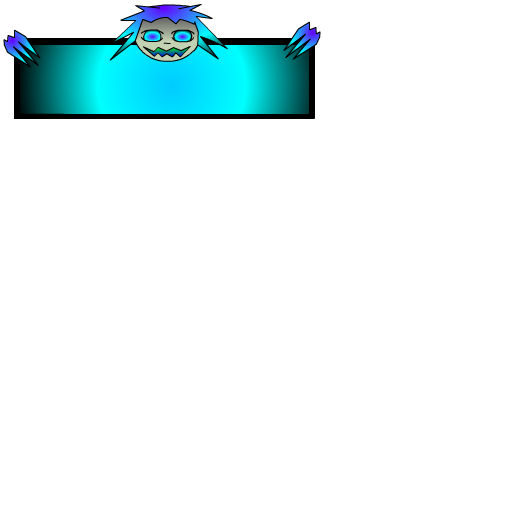
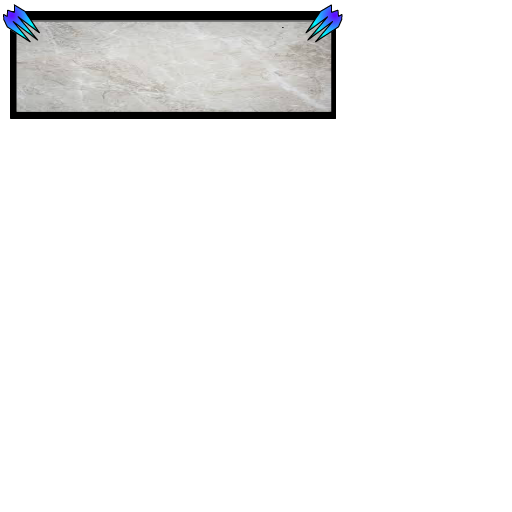
wip

Changed region(s): [[0.0, 0.0, 0.6875, 0.25]]

diff --git a/src/view/BottomPanel.js b/src/view/BottomPanel.js
@@ -9,7 +9,7 @@ export class BottomPanel extends PIXI.Container {
   constructor() {
     super();
 
-    const bg = new PIXI.Sprite(PIXI.Texture.fromImage('panelBack0000'));
+    const bg = new PIXI.Sprite(PIXI.Texture.fromImage('BottomPanel3'));
     bg.position.set(config.defaultWidth * 0.5, 0);
     bg.anchor.set(0.5, 0);
 
@@ -17,79 +17,133 @@ export class BottomPanel extends PIXI.Container {
     this.isDrag = false;
     this.targetSprite = null;
 
-    this.coinsTf = new PIXI.Text('0', config.panel_text);
-    this.coinsTf.position.set(400, 80);
+    this.coinsTf = new PIXI.Text('1', config.panel_gold_text);
+    this.coinsTf.position.set(400, 25);
     this.addChild(this.coinsTf);
 
+    const coin = new PIXI.Sprite(PIXI.Texture.fromImage('gold0000'));
+    coin.position.set(390, 29);
+    coin.anchor.set(0.5, 0);
+    this.addChild(coin);
+
     this.healtTf = new PIXI.Text('0', config.panel_text);
-    this.healtTf.position.set(400, 40);
+    this.healtTf.position.set(400, 50);
     this.addChild(this.healtTf);
 
-    let trapTexture = PIXI.utils.TextureCache['../assets/trab_back.png'];
+    const healt = new PIXI.Sprite(PIXI.Texture.fromImage('life0000'));
+    healt.position.set(390, 59);
+    healt.anchor.set(0.5, 0);
+    this.addChild(healt);
 
+    this.scoreTf = new PIXI.Text('0', config.panel_text);
+    this.scoreTf.position.set(400, 75);
+    this.addChild(this.scoreTf);
+
+    const score = new PIXI.Sprite(PIXI.Texture.fromImage('cupe0000'));
+    score.position.set(390, 81);
+    score.anchor.set(0.5, 0);
+    this.addChild(score);
+
+    // ONE TRAP
     const oneTrapBtn = new Button(
       PIXI.Texture.fromImage('Cross_btn0000'),
       PIXI.Texture.fromImage('Cross_btn0001'),
       PIXI.Texture.fromImage('Cross_btn0002'),
     );
-    oneTrapBtn.position.set(170, 55);
+    oneTrapBtn.width = 60;
+    oneTrapBtn.height = 60;
+    oneTrapBtn.position.set(170, 25);
     this.addChild(oneTrapBtn);
     oneTrapBtn.pointerdown = evt => {
       this.payTrap(types.cross, evt);
     };
 
+    const coin0 = new PIXI.Sprite(PIXI.Texture.fromImage('gold0000'));
+    coin0.position.set(200, 87);
+    coin0.anchor.set(0.5, 0);
+    this.addChild(coin0);
+
+    const coins0Tf = new PIXI.Text('5', config.panel_gold_text);
+    coins0Tf.anchor.set(0, 0.5);
+    coins0Tf.position.set(180, 87 + coin0.height * 0.5);
+    this.addChild(coins0Tf);
+
+    // TWO TRAP
     const twoTrapBtn = new Button(
       PIXI.Texture.fromImage('Pumpkin_btn0000'),
       PIXI.Texture.fromImage('Pumpkin_btn0001'),
       PIXI.Texture.fromImage('Pumpkin_btn0002'),
     );
-    twoTrapBtn.position.set(170 + 50, 55);
+    twoTrapBtn.width = 60;
+    twoTrapBtn.height = 60;
+    twoTrapBtn.position.set(235, 25);
     this.addChild(twoTrapBtn);
     twoTrapBtn.pointerdown = evt => {
       this.payTrap(types.pumpkin, evt);
     };
 
-    /* const sheepSprite = new PIXI.Sprite(
-      PIXI.Texture.fromImage('Pumpkin_mc0000'),
-    );
-    //sheepSprite.scale.set(2);
-    sheepSprite.anchor.set(0.5, 0.5);
-    sheepSprite.position.set(twoTrapBtn.width * 0.5, twoTrapBtn.height * 0.5);
-    twoTrapBtn.addChild(sheepSprite);*/
+    const coin1 = new PIXI.Sprite(PIXI.Texture.fromImage('gold0000'));
+    coin1.position.set(265, 87);
+    coin1.anchor.set(0.5, 0);
+    this.addChild(coin1);
 
+    const coins1Tf = new PIXI.Text('3', config.panel_gold_text);
+    coins1Tf.anchor.set(0, 0.5);
+    coins1Tf.position.set(245, 87 + coin0.height * 0.5);
+    this.addChild(coins1Tf);
+
+    // THREE TRAP
     const threeTrapBtn = new Button(
       PIXI.Texture.fromImage('Stone_btn0000'),
       PIXI.Texture.fromImage('Stone_btn0001'),
       PIXI.Texture.fromImage('Stone_btn0002'),
     );
-    threeTrapBtn.position.set(270, 55);
+    threeTrapBtn.width = 60;
+    threeTrapBtn.height = 60;
+    threeTrapBtn.position.set(300, 25);
     this.addChild(threeTrapBtn);
 
-    const stoneSprite = new PIXI.Sprite(PIXI.Texture.fromImage('Stone_mc0000'));
-    stoneSprite.anchor.set(0.5, 0.5);
-    stoneSprite.position.set(
-      threeTrapBtn.width * 0.5,
-      threeTrapBtn.height * 0.5,
-    );
-    threeTrapBtn.addChild(stoneSprite);
     threeTrapBtn.pointerdown = evt => {
       this.payTrap(types.stone, evt);
     };
 
+    const coin2 = new PIXI.Sprite(PIXI.Texture.fromImage('gold0000'));
+    coin2.position.set(330, 87);
+    coin2.anchor.set(0.5, 0);
+    this.addChild(coin2);
+
+    const coins2Tf = new PIXI.Text('1', config.panel_gold_text);
+    coins2Tf.anchor.set(0, 0.5);
+    coins2Tf.position.set(310, 87 + coin0.height * 0.5);
+    this.addChild(coins2Tf);
     // FairyMenBtn0164
 
     // FOUR
     const fairySprite = new PIXI.extras.AnimatedSprite(
       getTexture('FairyMenBtn'),
     );
+    fairySprite.scale.set(2, 2);
     fairySprite.anchor.set(0.5, 0.5);
     fairySprite.position.set(550, 55);
     this.addChild(fairySprite);
     fairySprite.pointerdown = evt => {
       this.payTrap(types.fairy, evt);
     };
+    fairySprite.animationSpeed = 0.2;
     fairySprite.gotoAndPlay(0);
     fairySprite.interactive = true;
+
+    const coin3 = new PIXI.Sprite(PIXI.Texture.fromImage('gold0000'));
+    coin3.position.set(545, 111);
+    coin3.anchor.set(0.5, 0);
+    this.addChild(coin3);
+
+    const coins3Tf = new PIXI.Text('50', config.panel_gold_text);
+    coins3Tf.anchor.set(0, 0.5);
+    coins3Tf.position.set(510, 110 + coin3.height * 0.5);
+    this.addChild(coins3Tf);
+
+    //
     eventEmitter.on(EVENTS.UPDATE_GOLD, evt => {
       this.coinsTf.text = evt.gold;
     });

diff --git a/src/view/traps/Fairy.js b/src/view/traps/Fairy.js
@@ -1,7 +1,7 @@
 import { BaseTrap } from './BaseTrap';
 import { types, getTexture } from './types';
 import { config } from '../../config';
-
+import { Amath } from '../../utils/Amath';
 const RIGHT = -1;
 const LEFT = 1;
 
@@ -9,7 +9,7 @@ export class Fairy extends BaseTrap {
   constructor(universe) {
     super();
 
-    this.speed = 1;
+    this.speed = 3;
     this.orientation = LEFT;
     this.type = types.fairy;
 
@@ -28,7 +28,9 @@ export class Fairy extends BaseTrap {
   }
 
   initEffect() {
-    this.effectSprite = new PIXI.extras.AnimatedSprite(getTexture(types.boom2));
+    this.effectSprite = new PIXI.extras.AnimatedSprite(
+      getTexture(types.fairyEffect),
+    );
     this.effectSprite.anchor.set(0.5, 0.5);
     this.effectSprite.position.set(-100, 50);
     this.effectSprite.scale.set(2, 2);
@@ -69,5 +71,15 @@ export class Fairy extends BaseTrap {
     this.x += this.speed * this.orientation;
     this.walkedAway();
     super.update(enemies);
+  }
+
+  collision(enemy) {
+    if (Amath.hitTestRectangle(this, enemy) && this.sprite.visible) {
+      console.log();
+      enemy.damage(this.damage);
+
+      this.playEffect(enemy);
+    } else {
+    }
   }
 }

diff --git a/src/App.js b/src/App.js
@@ -89,8 +89,10 @@ export class App {
       .add('../assets/rake.json')
       .add('../assets/rake_effect.json')
       .add('../assets/FairyTrap.json')
+      .add('../assets/FairyEffect.json')
       .add('../assets/Sheep.json')
       .add('../assets/boom2.json')
+      .add('../assets/target_trap.json')
       .add('../assets/life.json')
       .load(this.init.bind(this));
   }

diff --git a/src/view/health/HealthBar.js b/src/view/health/HealthBar.js
@@ -25,7 +25,7 @@ export class HealthBar extends PIXI.Container {
     });
     for (let i = 0; i < health; i++) {
       if (this.cache.length <= i) {
-        const hearth = new PIXI.Sprite(PIXI.Texture.fromImage('Life_mc0000'));
+        const hearth = new PIXI.Sprite(PIXI.Texture.fromImage('life0000'));
 
         hearth.anchor.set(0, 0);
         // hearth.scale.set(5, 5);

diff --git a/src/Config.js b/src/Config.js
@@ -21,6 +21,16 @@ export const config = {
     wordWrapWidth: 400,
   },
 
+  panel_gold_text: {
+    fontFamily: 'Helvetica',
+    fontSize: 25,
+    fontWeight: 'bold',
+    fill: 0x000000,
+    align: 'center',
+    wordWrap: true,
+    wordWrapWidth: 400,
+  },
+
   STATE_SCREEN_GAME: 1,
   STATE_SCREEN_LOBBY: 2,
   STATE_SCREEN_GAME_OVER: 3,

diff --git a/src/view/traps/types.js b/src/view/traps/types.js
@@ -8,6 +8,7 @@ export const types = {
   pumpkin: 'PumpkinEffect_mc',
   stone: 'Stone_mc',
   fairy: 'FairyMen_mc',
+  fairyEffect: 'FairyEffect_mc',
 };
 
 export const price = {
@@ -27,6 +28,7 @@ const Names = {
   Stone: 2,
   FairyMenBtn: 164,
   FairyMen_mc: 19,
+  FairyEffect_mc: 14,
 };
 
 export function getTexture(type) {
